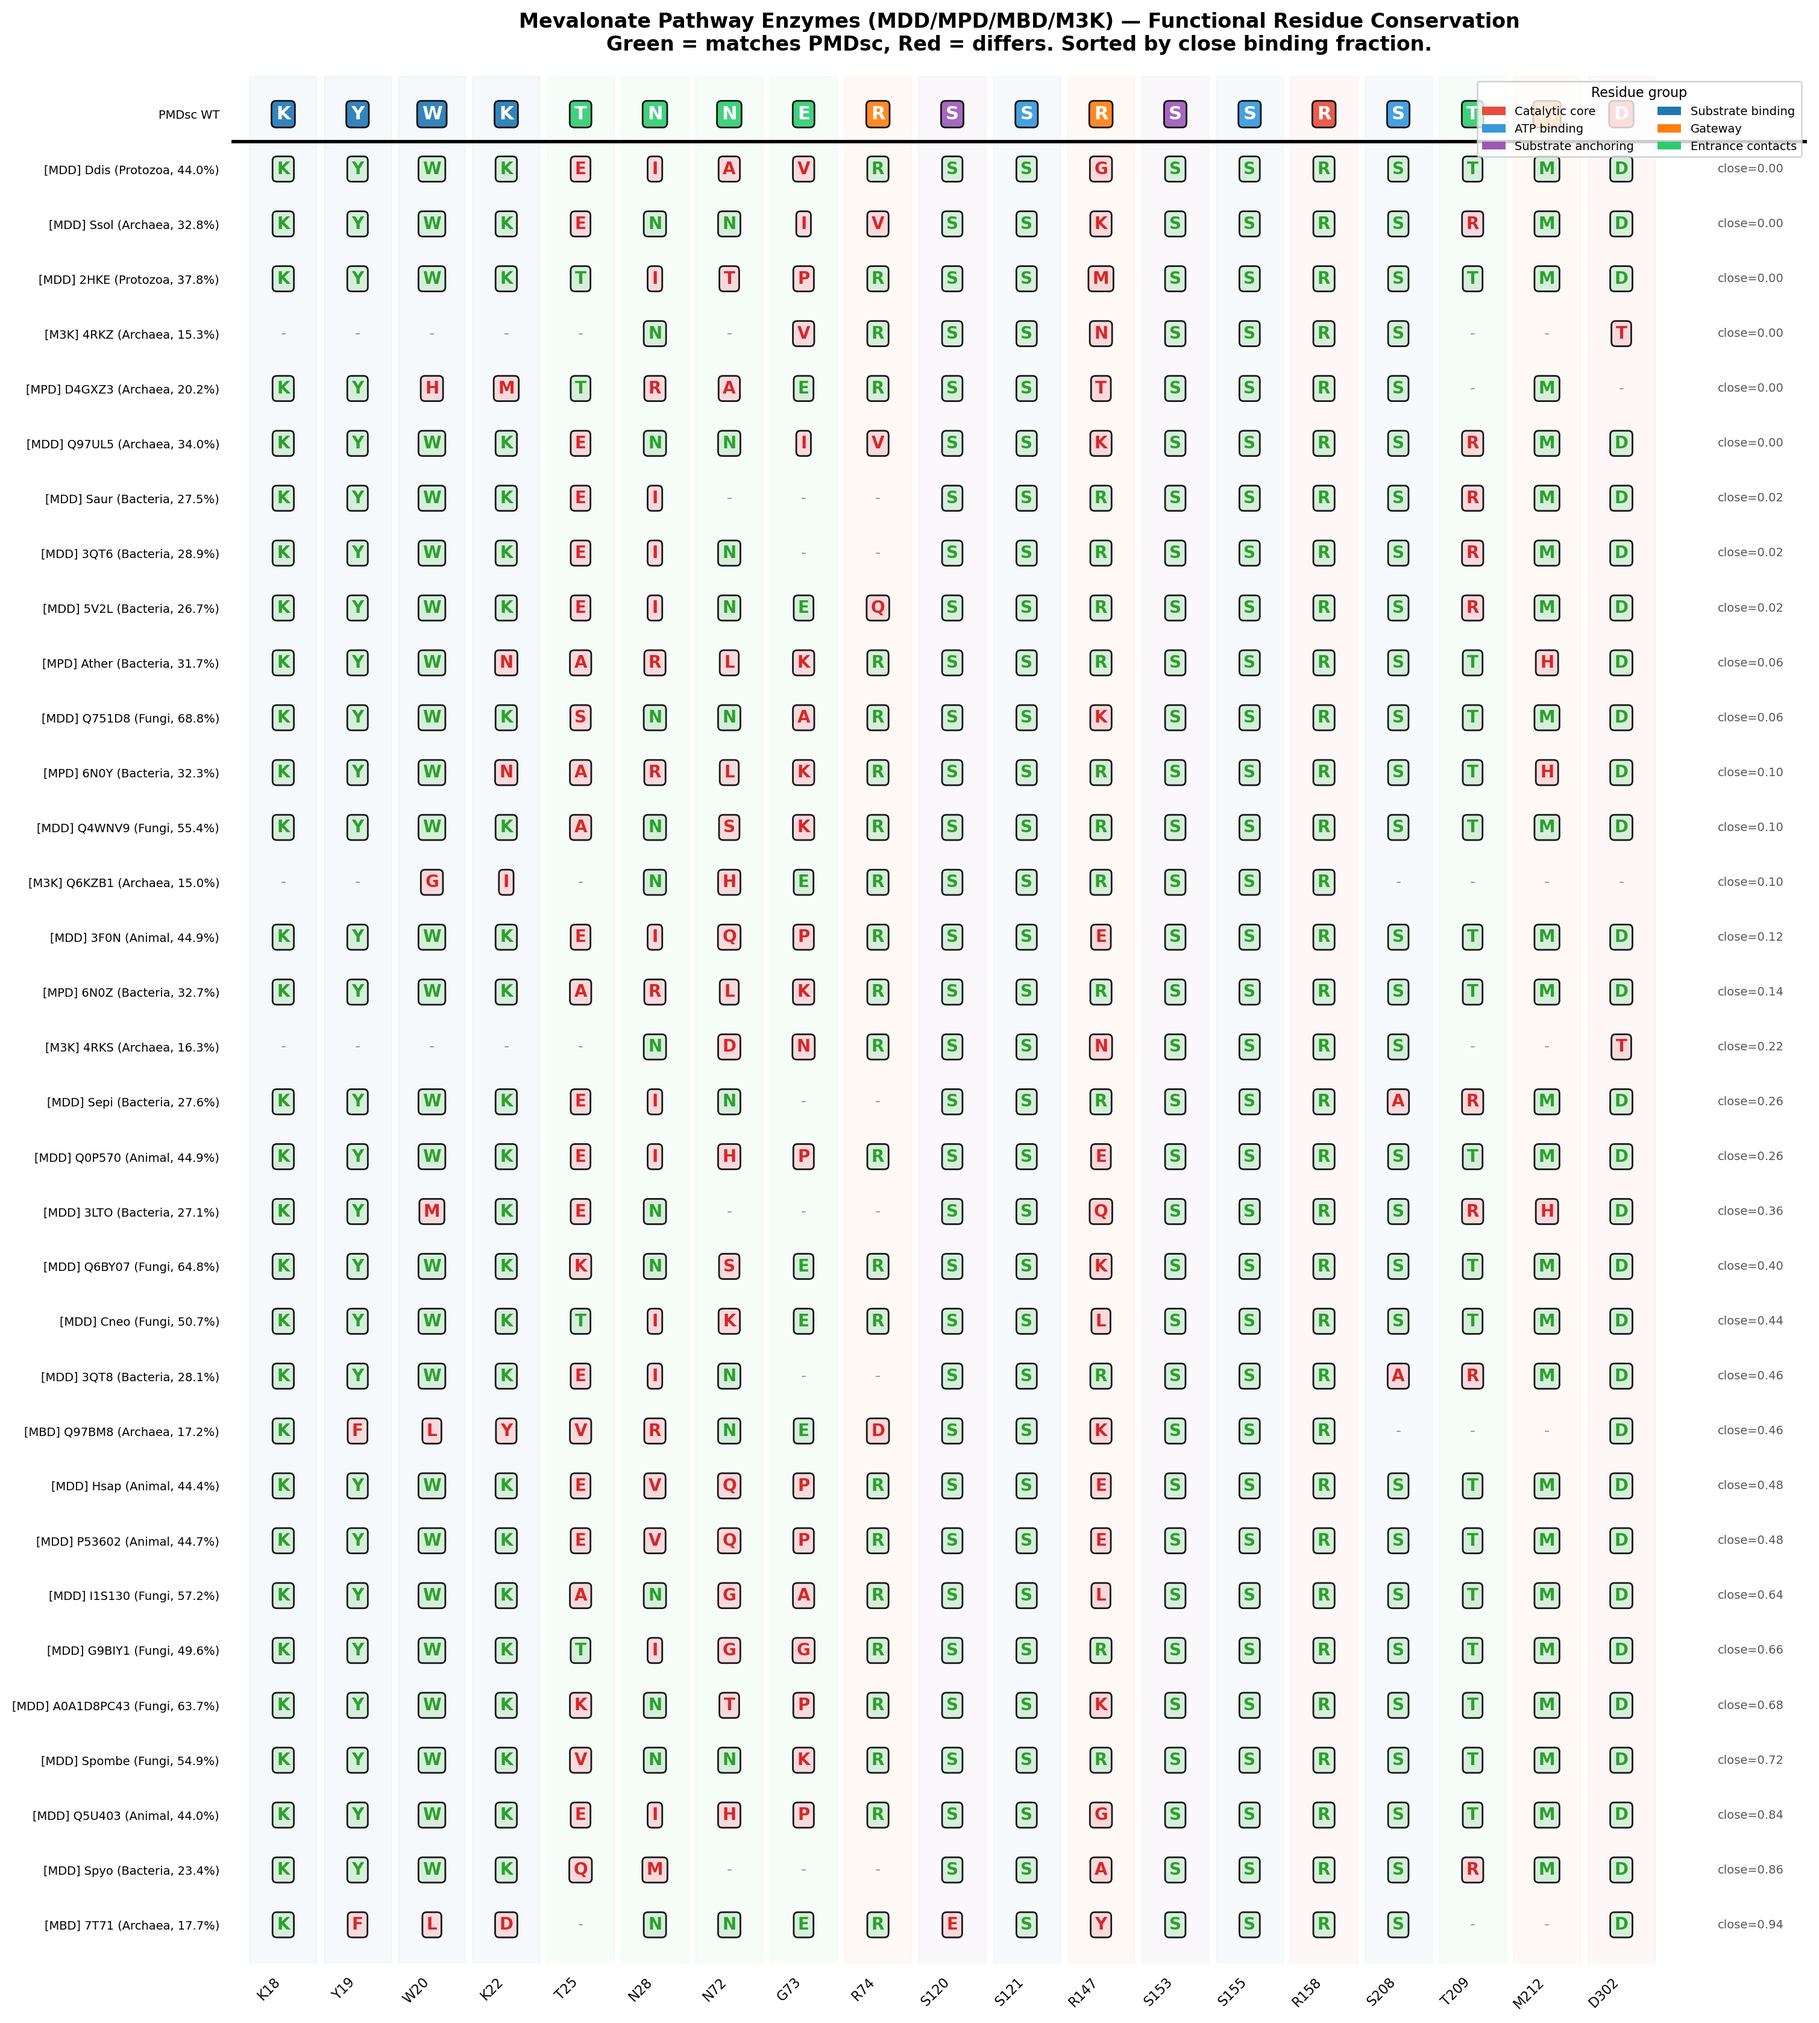
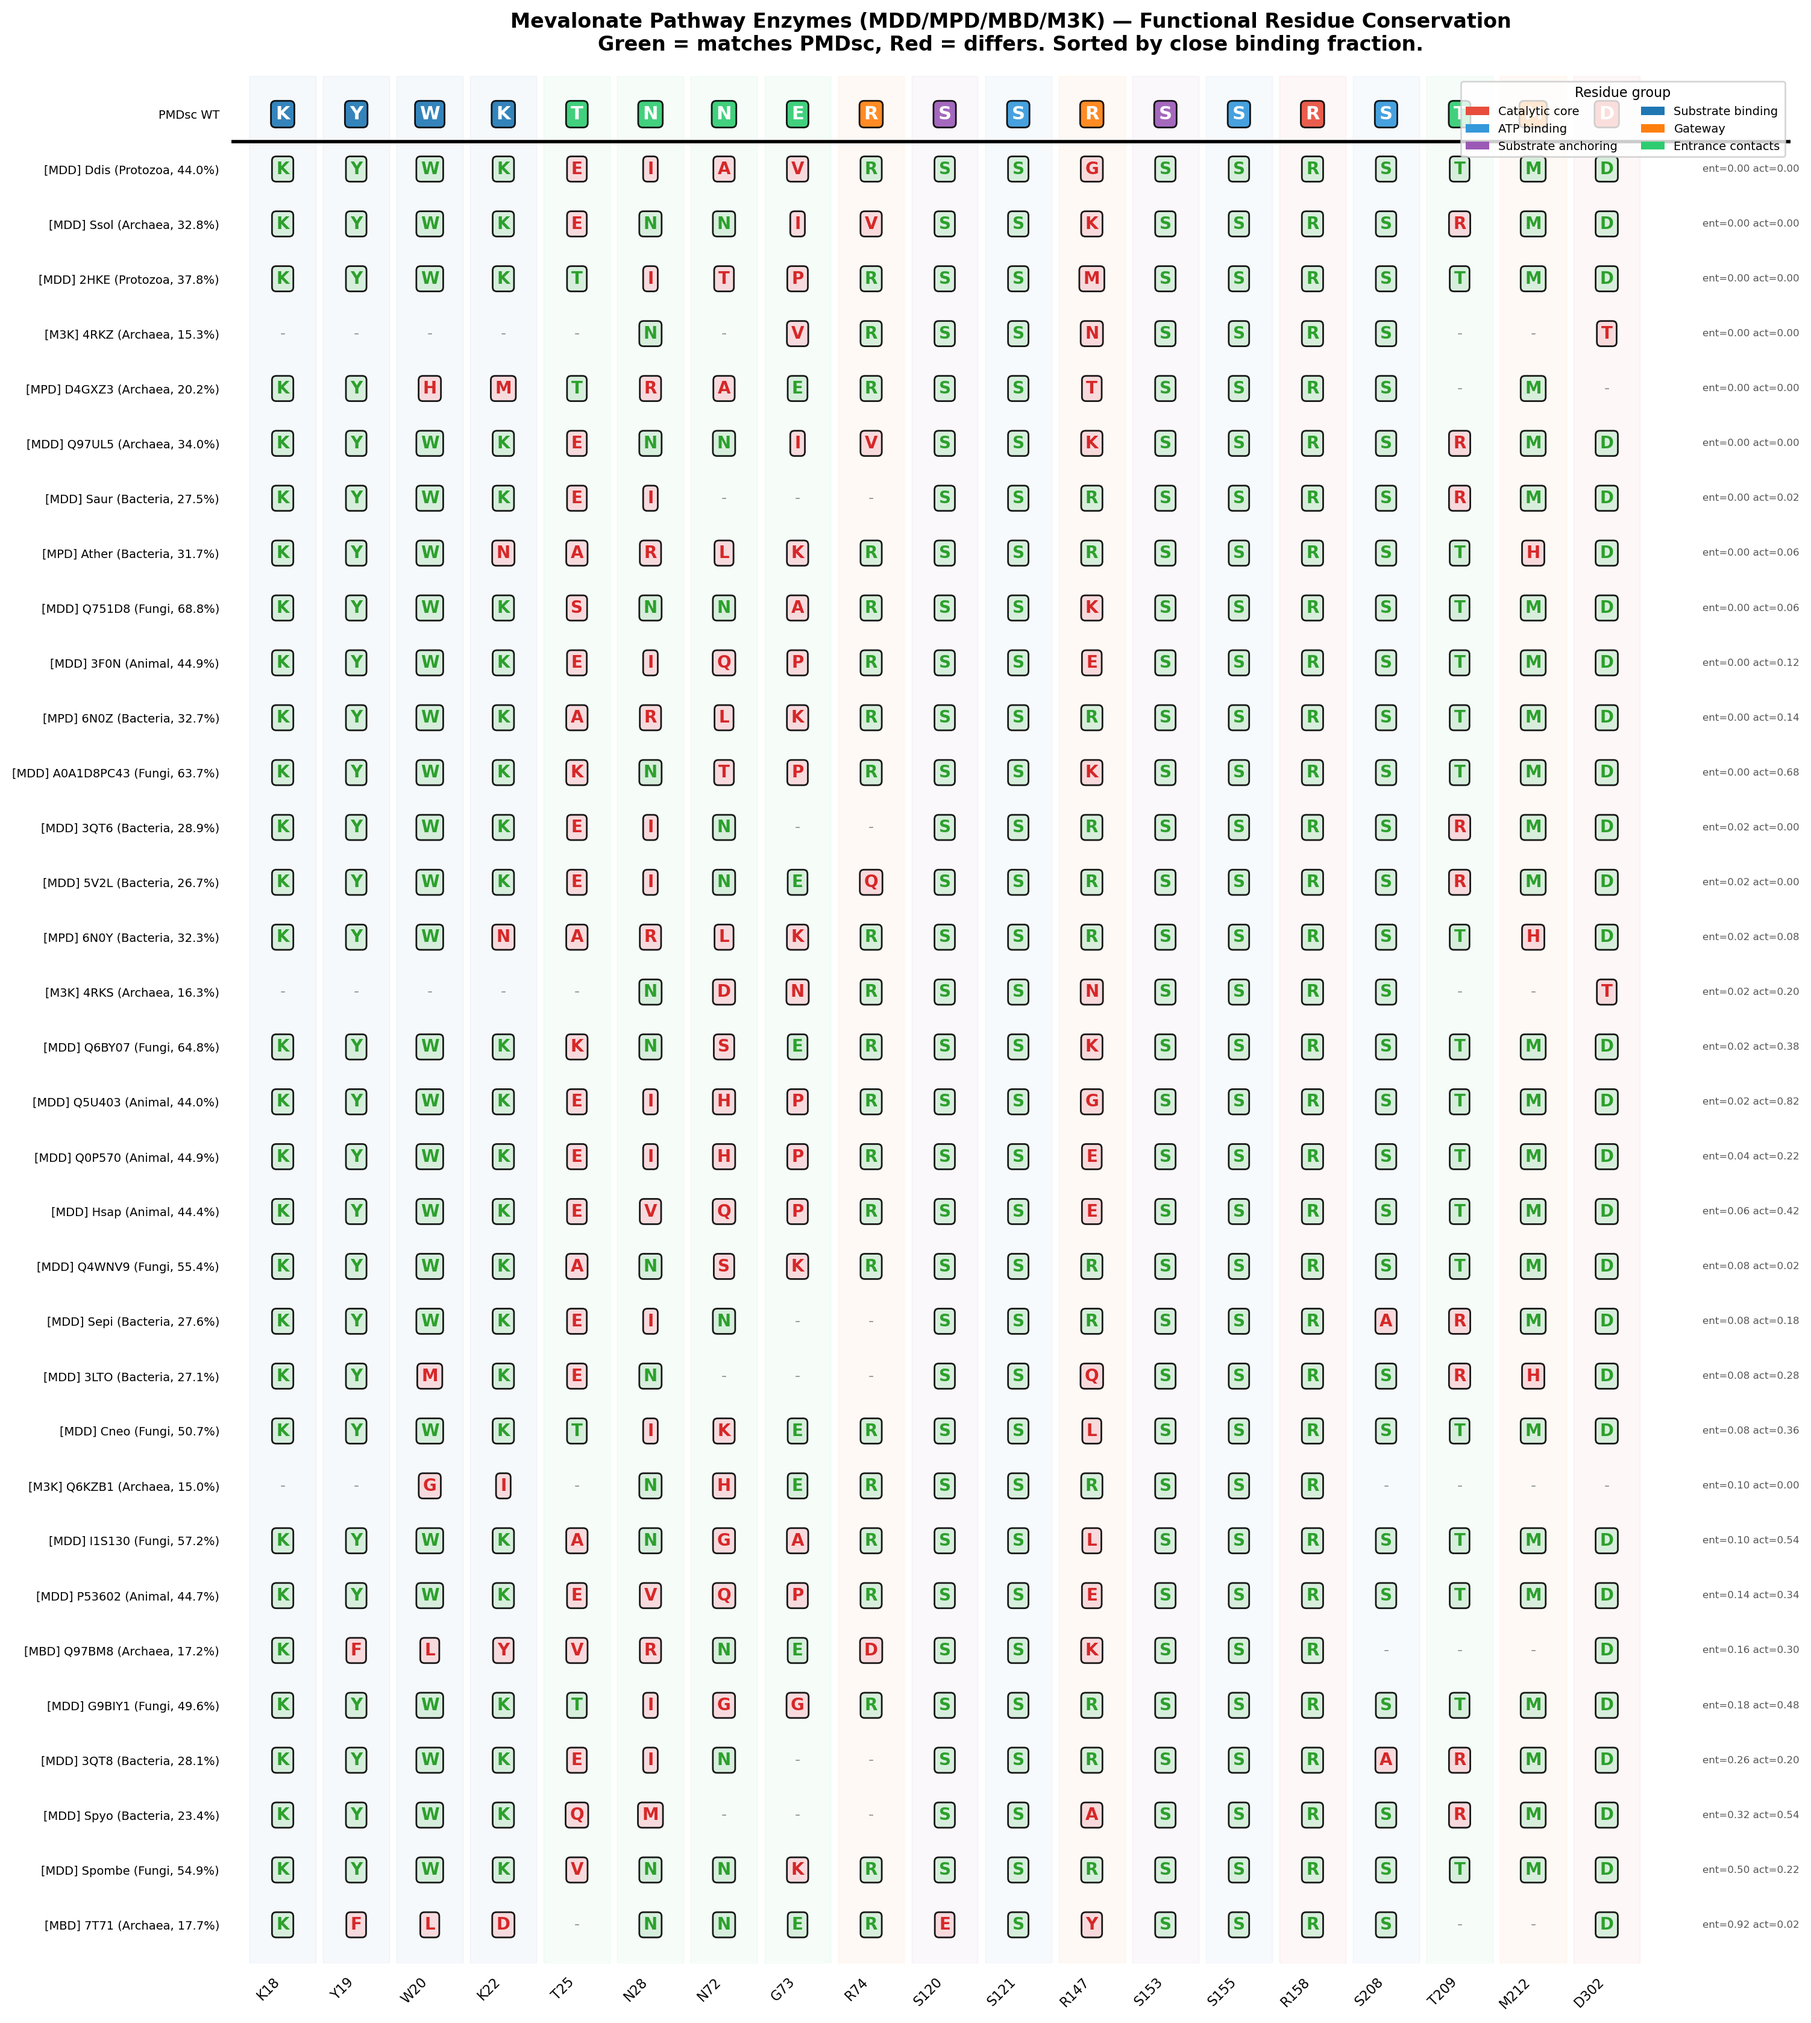
Report entrance and active_site fractions separately
Entrance trapping (substrate inhibition) and active site binding
(productive catalysis) are distinct phenomena that should not be
lumped together as "close%".

diff --git a/analysis/homolog_catalytic_conservation.py b/analysis/homolog_catalytic_conservation.py
@@ -280,37 +280,37 @@ def main():
     print(f"    (excluded {len(non_mva)} non-mevalonate GHMP kinases: "
           f"{', '.join(f'{f}={c}' for f, c in Counter(r['family'] for r in non_mva).most_common())})\n")
 
-    header = (f"{'Name':<25} {'Family':<6} {'Kingdom':<10} {'SeqID':>5} {'Close%':>6} "
+    header = (f"{'Name':<25} {'Family':<6} {'Kingdom':<10} {'SeqID':>5} {'Ent%':>5} {'Act%':>5} "
               f"{'Cat':>3} {'ATP':>3} {'Anc':>3} {'Sub':>3} {'GwDiff':>6} "
               f"  R74  R147 M212   T25  N28  N72  G73 T209")
-    print(header)
-    print("-" * len(header))
 
-    for r in sorted(mva_results, key=lambda x: float(x['frac_close'])):
-        gw = f"  {r['pos_74']:>3}  {r['pos_147']:>3} {r['pos_212']:>3}"
-        ent = f"   {r['pos_25']:>3}  {r['pos_28']:>3}  {r['pos_72']:>3}  {r['pos_73']:>3} {r['pos_209']:>3}"
-        print(f"{r['name']:<25} {r['family']:<6} {r['kingdom']:<10} {r['seq_identity']:>5} {r['frac_close']:>6} "
-              f"{r['cat_core']:>1}/2 {r['atp_bind']:>1}/3 {r['sub_anchor']:>1}/2 {r['sub_bind']:>1}/4 "
-              f"{r['gateway_diff']:>4}/3{gw}{ent}")
+    def print_table(rows):
+        print(header)
+        print("-" * len(header))
+        for r in sorted(rows, key=lambda x: float(x['frac_entrance'])):
+            gw = f"  {r['pos_74']:>3}  {r['pos_147']:>3} {r['pos_212']:>3}"
+            ent = f"   {r['pos_25']:>3}  {r['pos_28']:>3}  {r['pos_72']:>3}  {r['pos_73']:>3} {r['pos_209']:>3}"
+            print(f"{r['name']:<25} {r['family']:<6} {r['kingdom']:<10} {r['seq_identity']:>5} "
+                  f"{r['frac_entrance']:>5} {r['frac_active_site']:>5} "
+                  f"{r['cat_core']:>1}/2 {r['atp_bind']:>1}/3 {r['sub_anchor']:>1}/2 {r['sub_bind']:>1}/4 "
+                  f"{r['gateway_diff']:>4}/3{gw}{ent}")
+
+    print_table(mva_results)
+
+    print(f"\n  Reference: PMDsc WT  entrance=0.28, active_site=0.04")
+    print(f"  Reference: PMDsc HKQ entrance=0.02, active_site=0.00")
 
     # MDD-only view
     mdd_results = [r for r in results if r['family'] == 'MDD']
     print(f"\n=== MDD ONLY (same enzyme class as PMDsc): {len(mdd_results)} ===\n")
-    print(header)
-    print("-" * len(header))
-    for r in sorted(mdd_results, key=lambda x: float(x['frac_close'])):
-        gw = f"  {r['pos_74']:>3}  {r['pos_147']:>3} {r['pos_212']:>3}"
-        ent = f"   {r['pos_25']:>3}  {r['pos_28']:>3}  {r['pos_72']:>3}  {r['pos_73']:>3} {r['pos_209']:>3}"
-        print(f"{r['name']:<25} {r['family']:<6} {r['kingdom']:<10} {r['seq_identity']:>5} {r['frac_close']:>6} "
-              f"{r['cat_core']:>1}/2 {r['atp_bind']:>1}/3 {r['sub_anchor']:>1}/2 {r['sub_bind']:>1}/4 "
-              f"{r['gateway_diff']:>4}/3{gw}{ent}")
+    print_table(mdd_results)
 
     # --- Figure: heatmap of mevalonate pathway enzymes ---
     if not mva_results:
         print("\nNo mevalonate pathway enzymes found - no figure generated.")
         return
 
-    fig_data = sorted(mva_results, key=lambda x: float(x['frac_close']))
+    fig_data = sorted(mva_results, key=lambda x: (float(x['frac_entrance']), float(x['frac_active_site'])))
     n_rows = len(fig_data)
     n_cols = len(ALL_POSITIONS)
 
@@ -352,11 +352,11 @@ def main():
                         fontweight='bold', color='#d62728',
                         bbox=dict(boxstyle='round,pad=0.25', facecolor='#f8d7da', alpha=0.9))
 
-    # Annotations on right side
     for i, r in enumerate(fig_data):
         y = n_rows - 1 - i
-        ax.text(n_cols + 0.3, y, f"close={r['frac_close']}", fontsize=7,
-                va='center', ha='left', color='#555555')
+        ax.text(n_cols + 0.3, y,
+                f"ent={r['frac_entrance']} act={r['frac_active_site']}",
+                fontsize=6, va='center', ha='left', color='#555555')
 
     row_labels = ['PMDsc WT'] + [
         f"[{r['family']}] {r['name'].replace('homolog_','').replace('MDD_','').replace('MPD_','')} "
